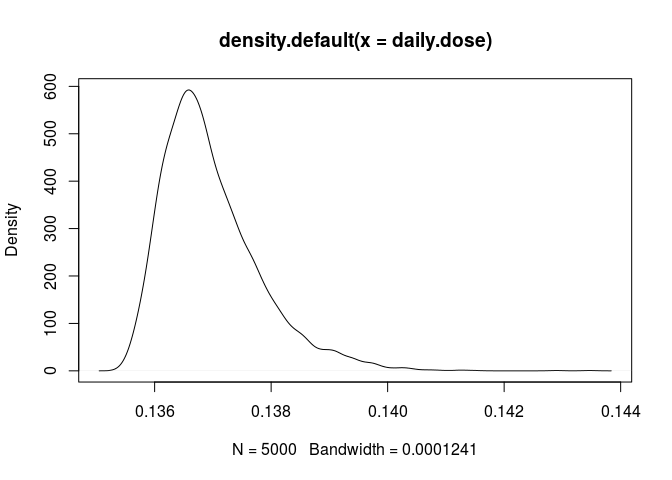
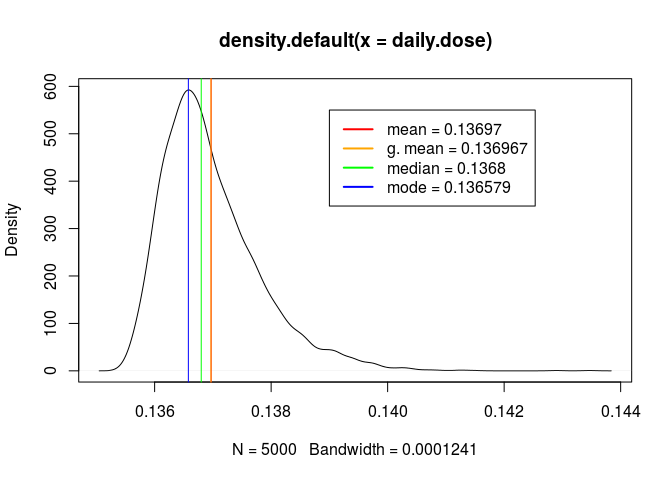
Added measures of central tendency and header comments for major sections.

Changed region(s): [[0.4688, 0.2188, 0.8125, 0.4375]]

diff --git a/ex0618prob.md b/ex0618prob.md
@@ -20,6 +20,10 @@ by Charles N. Haas, Joan B. Rose, and Charles P. Gerba. (Wiley, 2014).
 # Copyright (c) Jane Pouzou
 # License: CC BY-SA 4.0 - https://creativecommons.org/licenses/by-sa/4.0/
 
+# ---------------------------------------------------------------------
+# Define variables
+# ---------------------------------------------------------------------
+
 # Define additional variables provided in the example for three exposures.
 #
 # Shellfish consumption
@@ -31,6 +35,10 @@ dw.viral.load <- 0.001
 sw.viral.load <- 0.01
 sw.daily.IR <- 50         # Ingestion rate in mL of surface water
 sw.frequency <- 7         # Exposure frequency of 7 swims per year
+
+# ---------------------------------------------------------------------
+# Sample from probability distributions
+# ---------------------------------------------------------------------
 
 # Generate 5000 random values from a log-normal distribution to estimate 
 # exposure from consumption of drinking water (ml/day). Divide by 1000 
@@ -61,6 +69,10 @@ hist(swim.duration)
 ![](ex0618prob_files/figure-html/unnamed-chunk-1-2.png)
 
 ```r
+# ---------------------------------------------------------------------
+# Calculate estimated daily dose using probabilistic simulation
+# ---------------------------------------------------------------------
+
 # Define a function to calculate microbial exposure risk.
 Risk.fcn <- function(shell.vl, shell.cons, water.cons.L, dw.vl, sw.vl, 
                      sw.daily.IR, sw.duration, sw.frequency) {
@@ -79,13 +91,6 @@ daily.dose <- sapply(1:5000,
                                           sw.daily.IR = sw.daily.IR, 
                                           sw.frequency = sw.frequency))
 
-# Plot the kernel density estimates for the simulation.
-plot(density(daily.dose))
-```
-
-![](ex0618prob_files/figure-html/unnamed-chunk-1-3.png)
-
-```r
 # Set display options for use with the print() function.
 options(digits=3)
 
@@ -96,3 +101,73 @@ print(format(exp(mean(log(daily.dose))), scientific = TRUE))
 ```
 ## [1] "1.37e-01"
 ```
+
+```r
+# ---------------------------------------------------------------------
+# Plot the kernel density estimates
+# ---------------------------------------------------------------------
+
+# Calculate kernel density estimates.
+dens <- density(daily.dose)
+
+# Calculate measures of central tendency.
+meas <- data.frame(
+    measure = c("mean", "g. mean", "median", "mode"),
+    value = round(c(
+        mean(daily.dose), exp(mean(log(daily.dose))),
+        median(daily.dose), dens$x[which.max(dens$y)]
+    ), 6),
+    color = c("red", "orange", "green", "blue"),
+    stringsAsFactors = FALSE
+)
+
+# Print measures of central tendency.
+print(meas[1:2])
+```
+
+```
+##   measure value
+## 1    mean 0.137
+## 2 g. mean 0.137
+## 3  median 0.137
+## 4    mode 0.137
+```
+
+```r
+# Contruct text labels by combining each measure with its value.
+meas$label <- sapply(1:4, function(x) 
+    paste(meas$measure[x], as.character(meas$value[x]), sep = ' = '))
+
+# Add lines for measures of central tendency and a legend to a plot.
+add_lines_and_legend <- function(meas, x.pos = 0, y.pos = 0, cex = 1) {
+    # Plot measures of central tendency as vertical lines.
+    res <- sapply(1:4, function(x)
+        abline(v = meas$value[x], col = meas$color[x]))
+    
+    # Add a legend to the plot.
+    legend(x.pos, y.pos, meas$label, col = meas$color, 
+           cex = cex, lty = rep(1, 4), lwd = rep(2, 4))
+}
+
+# Plot the kernel density estimates.
+plot(dens)
+
+# Add lines for measures of central tendency and a legend.
+add_lines_and_legend(meas, 0.139, 550)
+```
+
+![](ex0618prob_files/figure-html/unnamed-chunk-1-3.png)
+
+```r
+# ---------------------------------------------------------------------
+# Plot the empirical cumulative distribution
+# ---------------------------------------------------------------------
+
+# Plot the empirical cumulative distribution for the exposure estimates.
+plot(ecdf(daily.dose))
+
+# Add lines for measures of central tendency and a legend.
+add_lines_and_legend(meas, 0.139, 0.8)
+```
+
+![](ex0618prob_files/figure-html/unnamed-chunk-1-4.png)
